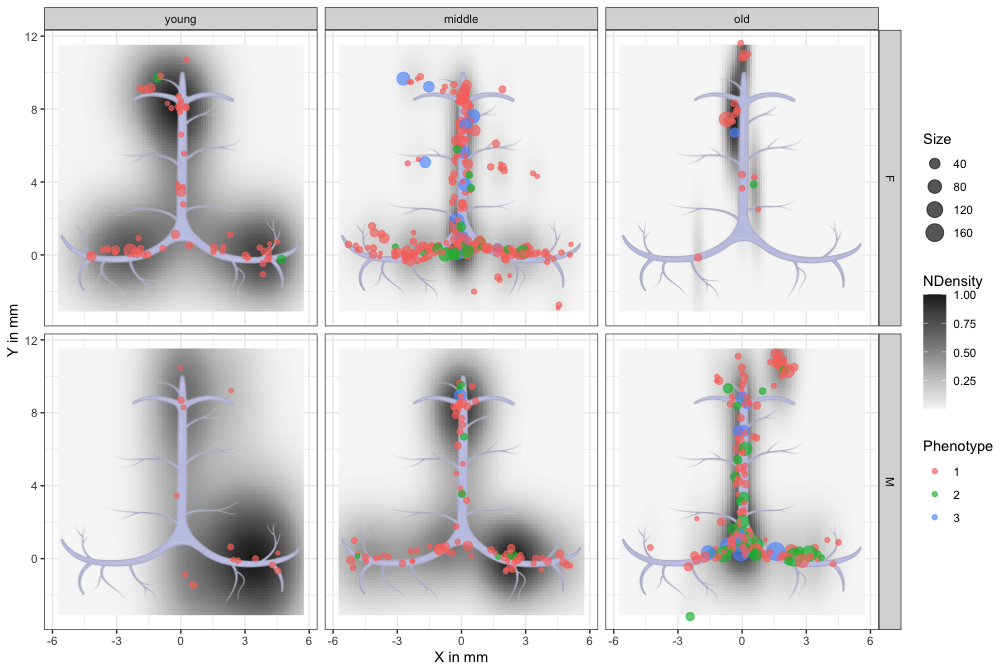
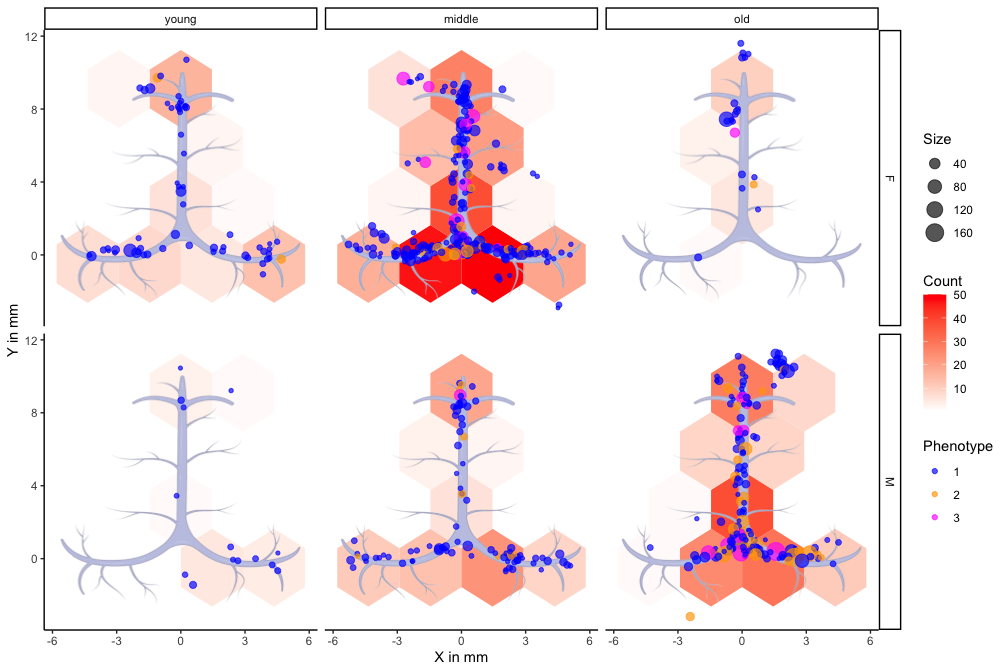
Replace density with hexagon plots

diff --git a/APP.md b/APP.md
@@ -4,8 +4,11 @@
 -   [Exploratory statistics](#exploratory-statistics)
 -   [Location of structures](#location-of-structures)
 -   [Distribution of structures](#distribution-of-structures)
+-   [Location and Distribution of
+    structures](#location-and-distribution-of-structures)
+-   [Extra visualisation](#extra-visualisation)
     -   [Distribution by phenotype](#distribution-by-phenotype)
--   [Density of structures](#density-of-structures)
+    -   [Density of structures](#density-of-structures)
     -   [Density by phenotype](#density-by-phenotype)
 
 ## Overview
@@ -29,12 +32,12 @@ sinus location, respectively.</caption>
 <colgroup>
 <col style="width: 4%" />
 <col style="width: 8%" />
-<col style="width: 6%" />
+<col style="width: 5%" />
+<col style="width: 12%" />
 <col style="width: 13%" />
-<col style="width: 10%" />
 <col style="width: 13%" />
-<col style="width: 21%" />
 <col style="width: 20%" />
+<col style="width: 19%" />
 </colgroup>
 <thead>
 <tr class="header">
@@ -42,8 +45,8 @@ sinus location, respectively.</caption>
 <th style="text-align: left;">Age</th>
 <th style="text-align: right;">Mice</th>
 <th style="text-align: right;">Structures</th>
-<th style="text-align: right;">MeanSize</th>
-<th style="text-align: right;">MeanLength</th>
+<th style="text-align: right;">AvgDiameter</th>
+<th style="text-align: right;">AvgDistance</th>
 <th style="text-align: left;">Phenotype (1-2-3)</th>
 <th style="text-align: left;">Sinus (0-90-180)</th>
 </tr>
@@ -121,7 +124,7 @@ sinus location, respectively.
 of their length and size across all tissues.
 
 <img src="results/plots/APPfig-bar-1.png" id="fig-bar"
-alt="Figure 1: Barplots of tertiary lyphatic structures distributed by (A) length and (B) size in mm." />
+alt="Figure 1: Barplots of tertiary lyphatic structures distributed by (A) diameter and (B) distance from confluence in mm." />
 
 ## Location of structures
 
@@ -133,23 +136,27 @@ alt="Figure 2: Scatter plot of TLSs around meninges. Each dot represents one st
 <img src="results/plots/APPfig-dist-1.png" id="fig-dist"
 alt="Figure 3: 2d Binned plot of tertiary limphatic structures around meninges. Colour indicates number of structures found in each hexagonal cell. Each panel corresponds to a mice group based on sex and age category." />
 
+## Location and Distribution of structures
+
+<img src="results/plots/APPfig-loc-dens-1.png" id="fig-loc-dens"
+alt="Figure 4: Density plot of TLSs around meninges. Each dot represents one structure, sized by dimension, coloured by phenotype. Colour indicates the fraction of structures found in each pixel. Each panel corresponds to a mice group based on sex and age category." />
+
+## Extra visualisation
+
 ### Distribution by phenotype
 
 <img src="results/plots/APPfig-dist-pheno-1.png" id="fig-dist-pheno"
-alt="Figure 4: 2d Binned plot of tertiary limphatic structures around meninges by phenotype (1, 2 or 3). Colour indicates number of structures found in each hexagonal cell. Rows correspond to a mice group based on sex and age category, whereas columns represent phenotypes." />
+alt="Figure 5: 2d Binned plot of tertiary limphatic structures around meninges by phenotype (1, 2 or 3). Colour indicates number of structures found in each hexagonal cell. Rows correspond to a mice group based on sex and age category, whereas columns represent phenotypes." />
 
-## Density of structures
+### Density of structures
 
-[Figure 5](#fig-dens) shows the density of TLSs.
+[Figure 6](#fig-dens) shows the density of TLSs.
 
 <img src="results/plots/APPfig-dens-1.png" id="fig-dens"
-alt="Figure 5: Density plot of tertiary lymphatic structures around meninges by phenotype (1, 2 or 3). Colour indicates the fraction of structures found in each pixel. Rows correspond to a mice group based on sex and age category, whereas columns represent phenotypes." />
+alt="Figure 6: Density plot of tertiary lymphatic structures around meninges by phenotype (1, 2 or 3). Colour indicates the fraction of structures found in each pixel. Rows correspond to a mice group based on sex and age category, whereas columns represent phenotypes." />
 
 <img src="results/plots/APPfig-ndens-1.png" id="fig-ndens"
-alt="Figure 6: Density plot of TLSs around meninges. Colour indicates the fraction of structures found in each pixel normalised by group maximum. Each panel corresponds to a mice group based on sex and age category." />
-
-<img src="results/plots/APPfig-loc-dens-1.png" id="fig-loc-dens"
-alt="Figure 7: Density plot of TLSs around meninges. Each dot represents one structure, sized by dimension, coloured by phenotype. Colour indicates the fraction of structures found in each pixel. Each panel corresponds to a mice group based on sex and age category." />
+alt="Figure 7: Density plot of TLSs around meninges. Colour indicates the fraction of structures found in each pixel normalised by group maximum. Each panel corresponds to a mice group based on sex and age category." />
 
 ### Density by phenotype
 

diff --git a/C57.md b/C57.md
@@ -4,8 +4,11 @@
 -   [Exploratory statistics](#exploratory-statistics)
 -   [Location of structures](#location-of-structures)
 -   [Distribution of structures](#distribution-of-structures)
+-   [Location and Distribution of
+    structures](#location-and-distribution-of-structures)
+-   [Extra visualisation](#extra-visualisation)
     -   [Distribution by phenotype](#distribution-by-phenotype)
--   [Density of structures](#density-of-structures)
+    -   [Density of structures](#density-of-structures)
     -   [Density by phenotype](#density-by-phenotype)
 
 ## Overview
@@ -29,12 +32,12 @@ sinus location, respectively.</caption>
 <colgroup>
 <col style="width: 4%" />
 <col style="width: 8%" />
-<col style="width: 6%" />
+<col style="width: 5%" />
+<col style="width: 12%" />
 <col style="width: 13%" />
-<col style="width: 10%" />
 <col style="width: 13%" />
-<col style="width: 21%" />
 <col style="width: 20%" />
+<col style="width: 19%" />
 </colgroup>
 <thead>
 <tr class="header">
@@ -42,8 +45,8 @@ sinus location, respectively.</caption>
 <th style="text-align: left;">Age</th>
 <th style="text-align: right;">Mice</th>
 <th style="text-align: right;">Structures</th>
-<th style="text-align: right;">MeanSize</th>
-<th style="text-align: right;">MeanLength</th>
+<th style="text-align: right;">AvgDiameter</th>
+<th style="text-align: right;">AvgDistance</th>
 <th style="text-align: left;">Phenotype (1-2-3)</th>
 <th style="text-align: left;">Sinus (0-90-180)</th>
 </tr>
@@ -121,7 +124,7 @@ sinus location, respectively.
 of their length and size across all tissues.
 
 <img src="results/plots/C57fig-bar-1.png" id="fig-bar"
-alt="Figure 1: Barplots of tertiary lyphatic structures distributed by (A) length and (B) size in mm." />
+alt="Figure 1: Barplots of tertiary lyphatic structures distributed by (A) diameter and (B) distance from confluence in mm." />
 
 ## Location of structures
 
@@ -133,23 +136,27 @@ alt="Figure 2: Scatter plot of TLSs around meninges. Each dot represents one st
 <img src="results/plots/C57fig-dist-1.png" id="fig-dist"
 alt="Figure 3: 2d Binned plot of tertiary limphatic structures around meninges. Colour indicates number of structures found in each hexagonal cell. Each panel corresponds to a mice group based on sex and age category." />
 
+## Location and Distribution of structures
+
+<img src="results/plots/C57fig-loc-dens-1.png" id="fig-loc-dens"
+alt="Figure 4: Density plot of TLSs around meninges. Each dot represents one structure, sized by dimension, coloured by phenotype. Colour indicates the fraction of structures found in each pixel. Each panel corresponds to a mice group based on sex and age category." />
+
+## Extra visualisation
+
 ### Distribution by phenotype
 
 <img src="results/plots/C57fig-dist-pheno-1.png" id="fig-dist-pheno"
-alt="Figure 4: 2d Binned plot of tertiary limphatic structures around meninges by phenotype (1, 2 or 3). Colour indicates number of structures found in each hexagonal cell. Rows correspond to a mice group based on sex and age category, whereas columns represent phenotypes." />
+alt="Figure 5: 2d Binned plot of tertiary limphatic structures around meninges by phenotype (1, 2 or 3). Colour indicates number of structures found in each hexagonal cell. Rows correspond to a mice group based on sex and age category, whereas columns represent phenotypes." />
 
-## Density of structures
+### Density of structures
 
-[Figure 5](#fig-dens) shows the density of TLSs.
+[Figure 6](#fig-dens) shows the density of TLSs.
 
 <img src="results/plots/C57fig-dens-1.png" id="fig-dens"
-alt="Figure 5: Density plot of tertiary lymphatic structures around meninges by phenotype (1, 2 or 3). Colour indicates the fraction of structures found in each pixel. Rows correspond to a mice group based on sex and age category, whereas columns represent phenotypes." />
+alt="Figure 6: Density plot of tertiary lymphatic structures around meninges by phenotype (1, 2 or 3). Colour indicates the fraction of structures found in each pixel. Rows correspond to a mice group based on sex and age category, whereas columns represent phenotypes." />
 
 <img src="results/plots/C57fig-ndens-1.png" id="fig-ndens"
-alt="Figure 6: Density plot of TLSs around meninges. Colour indicates the fraction of structures found in each pixel normalised by group maximum. Each panel corresponds to a mice group based on sex and age category." />
-
-<img src="results/plots/C57fig-loc-dens-1.png" id="fig-loc-dens"
-alt="Figure 7: Density plot of TLSs around meninges. Each dot represents one structure, sized by dimension, coloured by phenotype. Colour indicates the fraction of structures found in each pixel. Each panel corresponds to a mice group based on sex and age category." />
+alt="Figure 7: Density plot of TLSs around meninges. Colour indicates the fraction of structures found in each pixel normalised by group maximum. Each panel corresponds to a mice group based on sex and age category." />
 
 ### Density by phenotype
 
